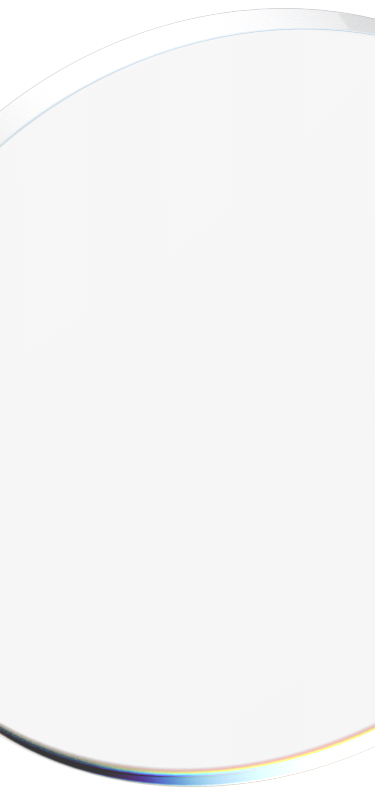
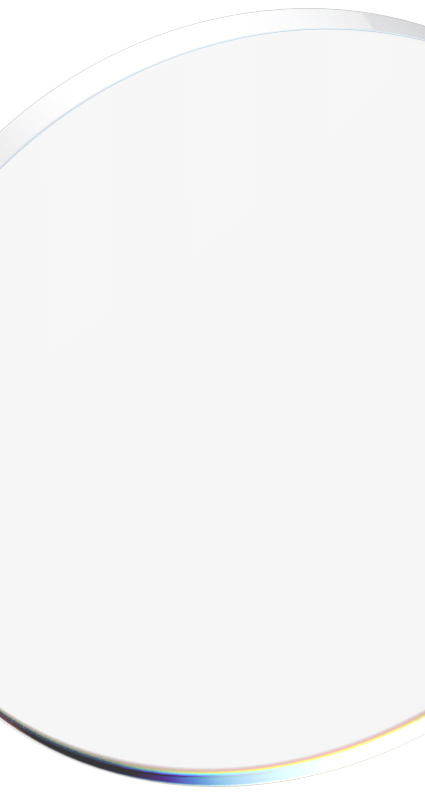
fix mobile frontpage to 375px

diff --git a/_sass/front-page.scss b/_sass/front-page.scss
@@ -141,13 +141,16 @@
                     content: "";
                     position: absolute;
                     width: 380px;
-                    height: 625px;
+                    height: 610px;
                     left: 22px;
                     top: 100px;
                     background: rgba(134, 134, 134, 0.45);
                     mix-blend-mode: color-dodge;
                     opacity: 0.8;
                     border-radius: 10px;
+                    @media (max-width: 375px) {
+                        width: 330px;
+                    }
                 }
                 .title-image{
                     text-align: center;
@@ -162,7 +165,7 @@
                     line-height: 20px;
                     text-align: center;
                     letter-spacing: 2.6px;
-                    padding: 5px 0 25px 0;
+                    padding: 5px 0 30px 0;
                     span{
                         color: rgba(14, 167, 165, 1);
                     }
@@ -174,7 +177,10 @@
                     font-size: 15px;
                     line-height: 13px;
                     letter-spacing: 1.1px;
-                    padding: 141px 0 5px 0;
+                    padding-top: 141px;
+                    @media (max-width: 375px) {
+                        padding-left: 13px;
+                    }
                 }
                 p{
                     width: 252px;
@@ -191,26 +197,33 @@
                 
                 
             }
-            .btn {
+            .frontpage__btn-mobile{
+                width: 267px;
                 margin: 0 auto;
-                max-width: 210px;
-                text-align: center;
-                background: #000000;
-                mix-blend-mode: multiply;
-                border: 1px solid #000000;
-                box-shadow: 0px 4px 4px rgba(0, 0, 0, 0.25);
-                border-radius: 25px;
-                padding: 5px 10px 9px;
-                img{
-                    width: 90%;
+                .btn {
+                    margin: 0 auto;
+                    max-width: 210px;
+                    text-align: center;
+                    background: #000000;
+                    mix-blend-mode: multiply;
+                    border: 1px solid #000000;
+                    box-shadow: 0px 4px 4px rgba(0, 0, 0, 0.25);
+                    border-radius: 25px;
+                    padding: 5px 10px;
+                    img{
+                        width: 90%;
+                    }
                 }
             }
             .frontpage__circle-mobile {
-                width: 425px;
-                height: 795px;
+                max-width: 100%;
+                height: auto;
                 position: absolute;
                 top: 0;
                 z-index: 1;
+                @media (max-width: 375px) {
+                    height: 795px;
+                }
             }
         }
     } 
@@ -226,11 +239,14 @@
                 width: 380px;
                 height: 108px;
                 left: 23px;
-                top: 746px;
+                top: 745px;
                 background: rgba(134, 134, 134, 0.45);
                 mix-blend-mode: color-dodge;
                 opacity: 0.8;
                 border-radius: 10px;
+                @media (max-width: 375px) {
+                    width: 330px;
+                }
             }
             &>*{
                 position: relative;
@@ -265,13 +281,21 @@
             }
             @media (max-width: 425px) {
                 margin-top: 65px;
+                overflow: hidden;
             }
 
             .video__item {
                 position: relative;
                 width: 100%;
                 border-radius: 80px;
-                
+                @media (max-width: 425px) {
+                    width: 220%;
+                    transform: translate(-248px, 10px);
+                }
+                @media (max-width: 375px) {
+                    width: 250%;
+                    transform: translate(-262px, 10px);
+                }
             }
         }
     }
@@ -307,6 +331,9 @@
             @media (max-width: 425px) {
                 width: 380px;
                 height: 260px;
+            }
+            @media (max-width: 375px) {
+                width: 331px;
             }
         }
         &::before{
@@ -365,6 +392,9 @@
                 font-size: 15px;
                 line-height: 13px;
                 letter-spacing: 1.1px;
+                @media (max-width: 375px) {
+                    margin: 40px 0px 35px 35px; 
+                }
             }
         }
         .join__btn{
@@ -430,6 +460,10 @@
                 column-gap: 15px;
                 margin-left: 60px;
             }
+            @media (max-width: 375px) {
+                width: 331px;
+                margin-left: 35px;
+            }
             .email{
                 z-index: 100;
                 width: 294px;
@@ -489,6 +523,11 @@
                     font-size: 7px;
                 }
             }
+            .foot{
+                @media (max-width: 425px) {
+                    width: 94px;
+                }
+            }
         }
     }
             
@@ -500,6 +539,9 @@
         }
         @media (max-width: 425px) {
             margin-top: 165px;
+        }
+        @media (max-width: 375px) {
+            margin-bottom: -30px;
         }
         &::before{
             content:"";
@@ -569,6 +611,9 @@
                 height: 460px;
                 top: -30px;
             }
+            @media (max-width: 375px) {
+                width: 331px;
+            }
         }
         .wehomies__row2{
             margin-top: 185px;
@@ -608,6 +653,9 @@
                 height: 460px;
                 right: 20px;
             }
+            @media (max-width: 375px) {
+                width: 331px;
+            }
         }
     
             .wehomies__content {  
@@ -640,7 +688,7 @@
                         font-size: 15px;
                         line-height: 13px;
                         letter-spacing: 1.1px;
-                        margin-left: -15px;
+                        margin-left: -10px;
                         margin-top: 35px;
                     }
                 }
@@ -782,6 +830,29 @@
                         }
                     }
                 }
+                .wehomies__row3 {
+                    position: relative;
+                    &::before{
+                        content: "";
+                        position: absolute;
+                        width: 331px;
+                        height: 460px;
+                        left: 41px;
+                        top: 163px;
+                        background: rgba(134, 134, 134, 0.45);
+                        mix-blend-mode: color-dodge;
+                        opacity: 0.8;
+                        border-radius: 10px;
+                    }
+                }
+                .wehomies__content {
+                }
+                .title-image {
+                }
+                .wehomies__btn-mobile {
+                }
+                .btn {
+                }
             
         }
         .wehomies__img-illust {
@@ -800,6 +871,9 @@
                 img{
                     width: 100%;
                 }
+            }
+            @media (max-width: 375px) {
+                transform: translate(23px, -43px);
             }
             
             &::after{
@@ -845,6 +919,9 @@
                         width: 100%;
                     }
                 }
+                @media (max-width: 375px) {
+                    transform: translate(30px, -50px);
+                }
             }
 
             &::after{
@@ -868,6 +945,9 @@
                     img{
                         width: 100%;
                     }
+                }
+                @media (max-width: 375px) {
+                    transform: translate(-285px, 83px);
                 }
             }
         }
@@ -994,9 +1074,6 @@
                     width: 727px;
                     transform: translate(-191px, 76px);              
                 }
-            }
-            .btn__content{
-
             }
 
             a.btn {

diff --git a/index.html b/index.html
@@ -33,9 +33,11 @@ cta_description: and BE PART OF THE SOUVENIR REVOLUTION!
         <h2>{{page.subtitle-mobile}}</h2>
         <img class="title-image" src="{{page.title_image-mobile}}" alt="svenir">
         <h1>{{page.title-mobile}}</h1>
-        <a class="btn" href="{{page.cta_link}}">
-          <img src="{{page.cta_image}}" alt="dive">
-        </a>
+        <div class="frontpage__btn-mobile">
+          <a class="btn" href="{{page.cta_link}}">
+            <img src="{{page.cta_image}}" alt="dive">
+          </a>
+        </div>
         <p>{{page.descr}}</p>
       </div>
       <img class="frontpage__circle-mobile" src="/assets/images/bg_circle-mobile.png" alt="circle decoration">

diff --git a/_includes/frontpage-wehomies.html b/_includes/frontpage-wehomies.html
@@ -41,5 +41,17 @@
       <img src="/assets/images/earth.png" alt="earth">
     </div>
   </div>
+  <!--<div class="wehomies__row3">
+    <div class="wehomies__content">
+      <img class="title-image" src="{{page.title_image-mobile}}" alt="svenir">
+      <h1>{{page.title-mobile}}</h1>
+      <div class="wehomies__btn-mobile">
+        <a class="btn" href="{{page.cta_link}}">
+          <img src="{{page.cta_image}}" alt="dive">
+        </a>
+      </div>
+      <p>{{page.descr}}</p>
+    </div>
+  </div>-->
 
 </div>
